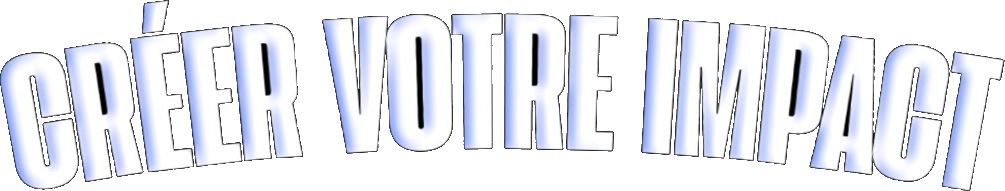
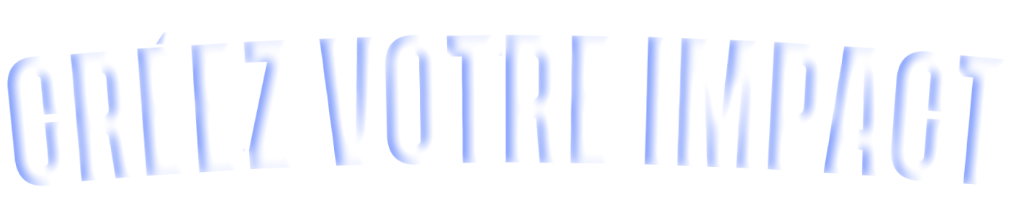
modif

Changed region(s): [[0.0, 0.0, 1.0, 1.0]]

diff --git a/src/components/AsteroidScroll.tsx b/src/components/AsteroidScroll.tsx
@@ -198,7 +198,7 @@ export function AsteroidScroll({
             <h1 className="mx-auto w-[min(94cqw,92rem)]">
               <img
                 src={heroTitle}
-                alt="Créer votre impact"
+                alt="Créez votre impact"
                 className="h-auto w-full select-none"
                 draggable={false}
               />
